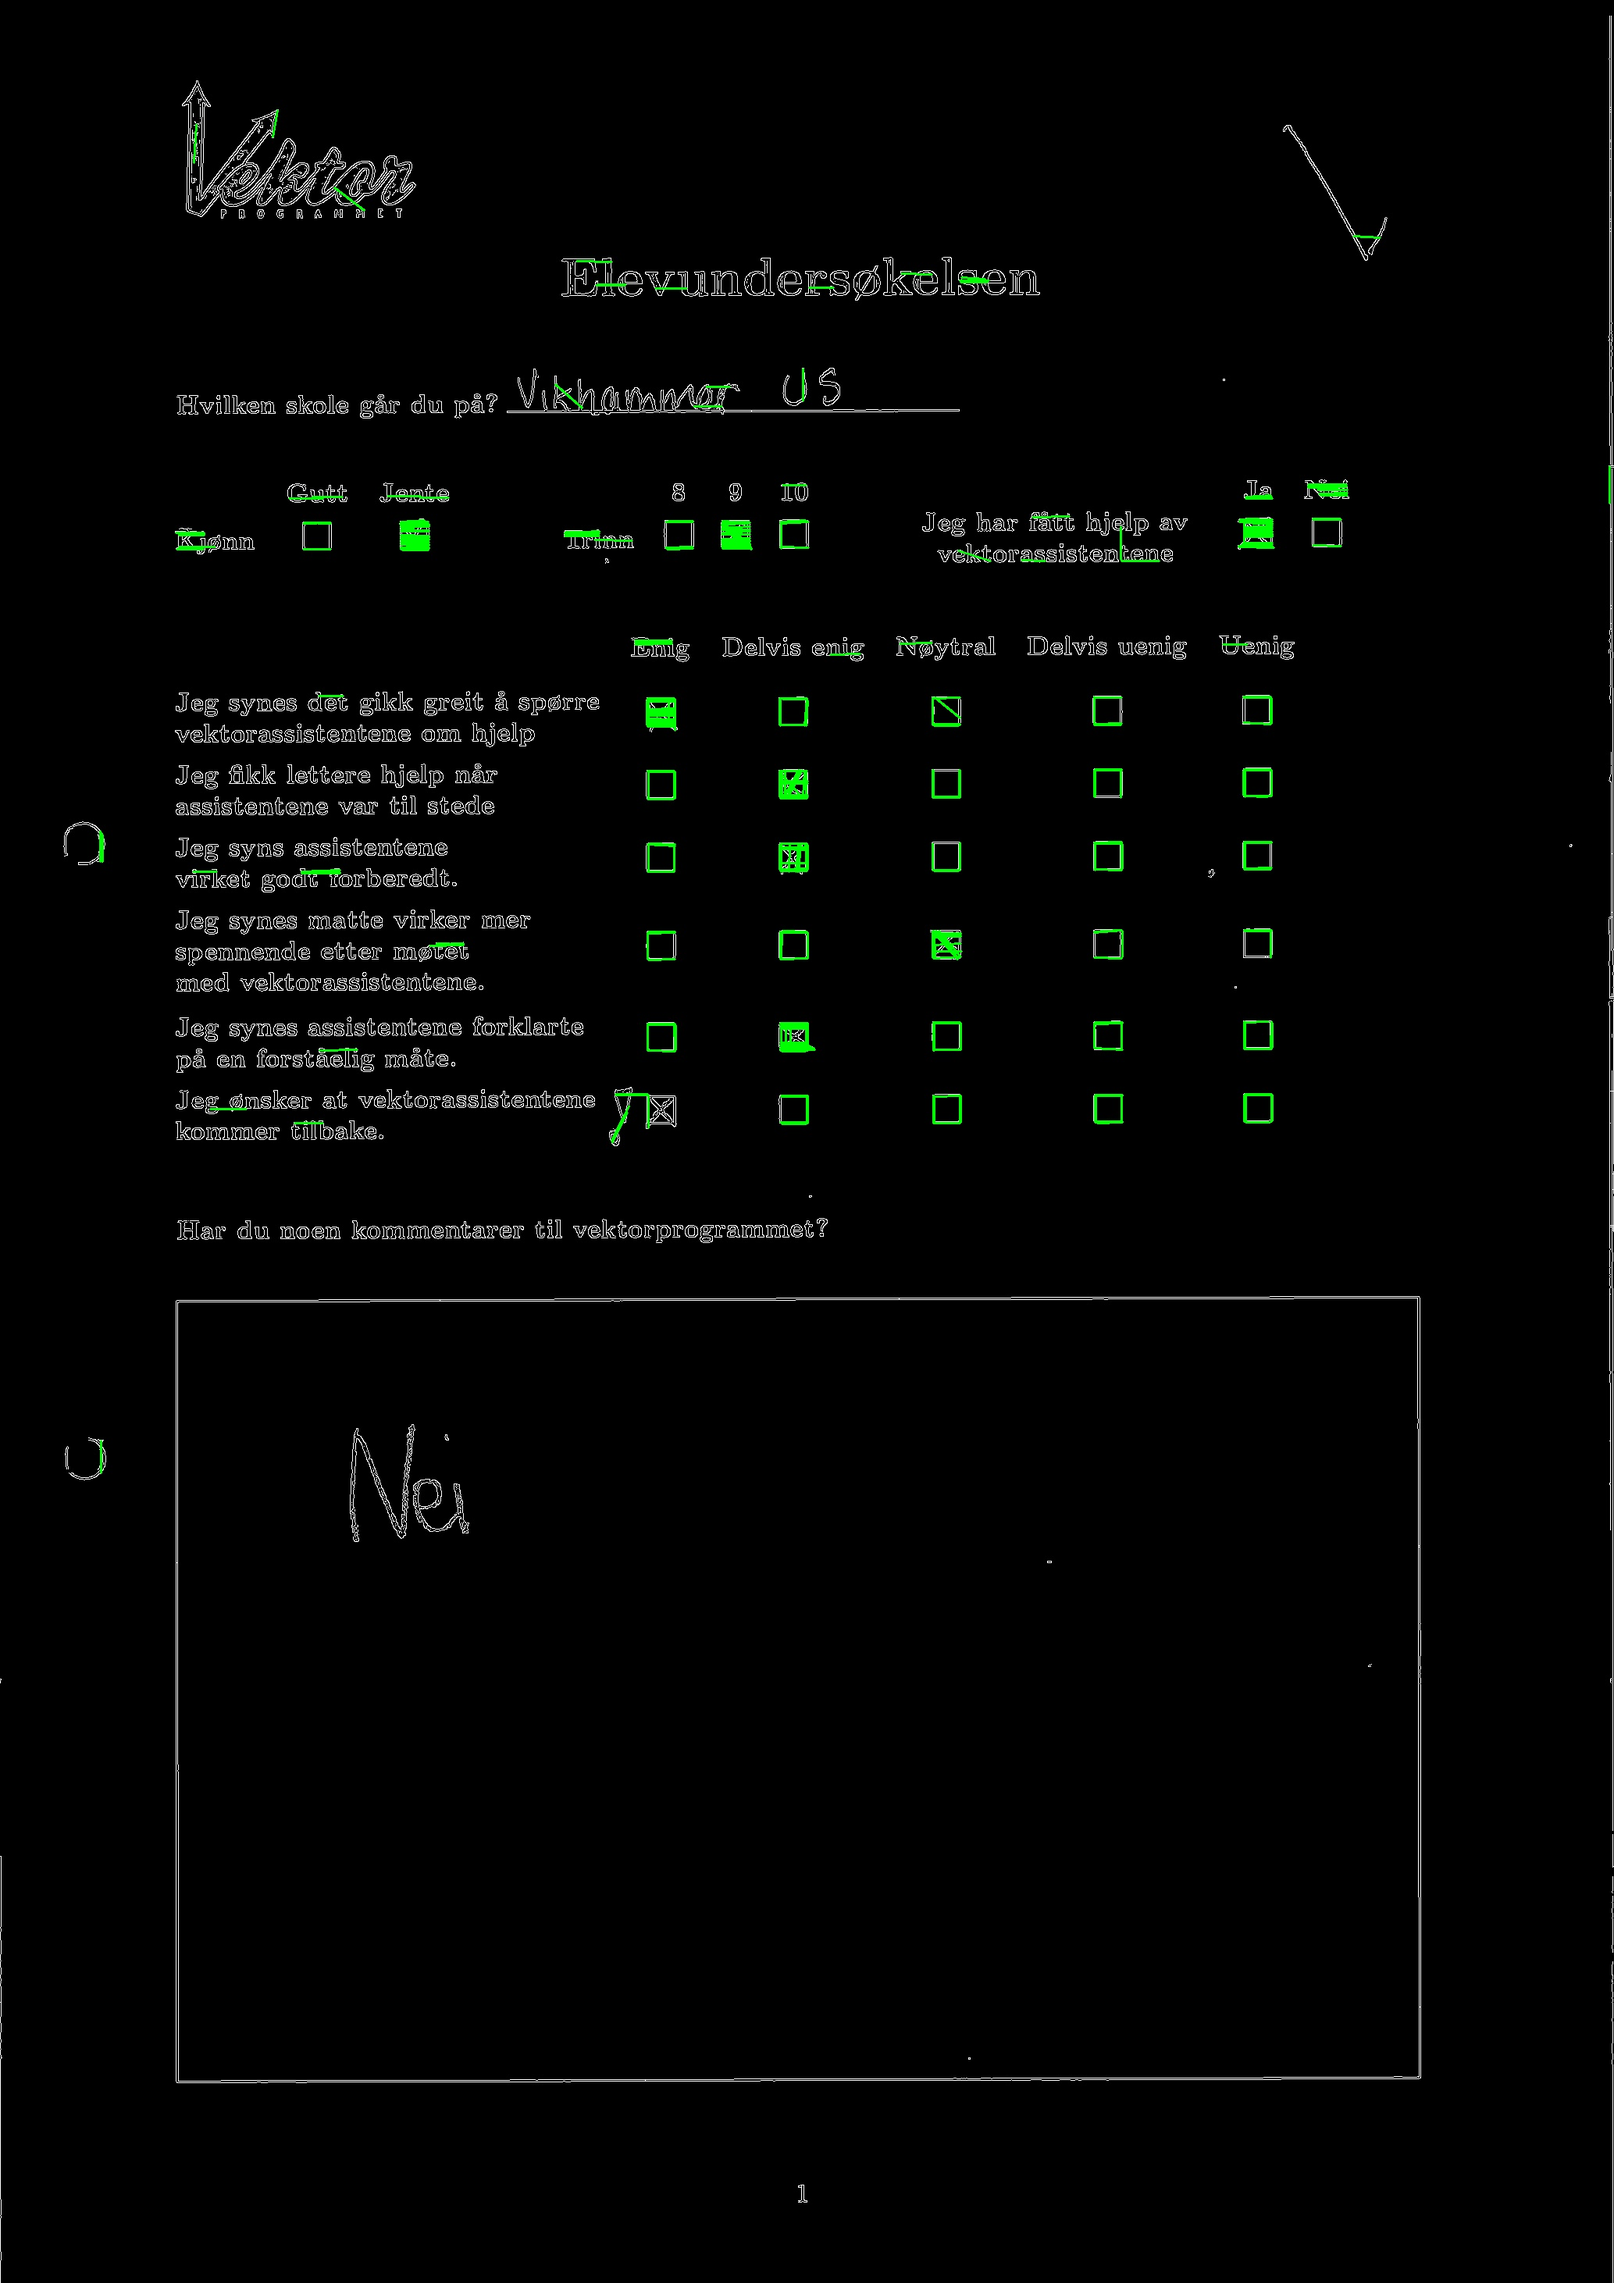
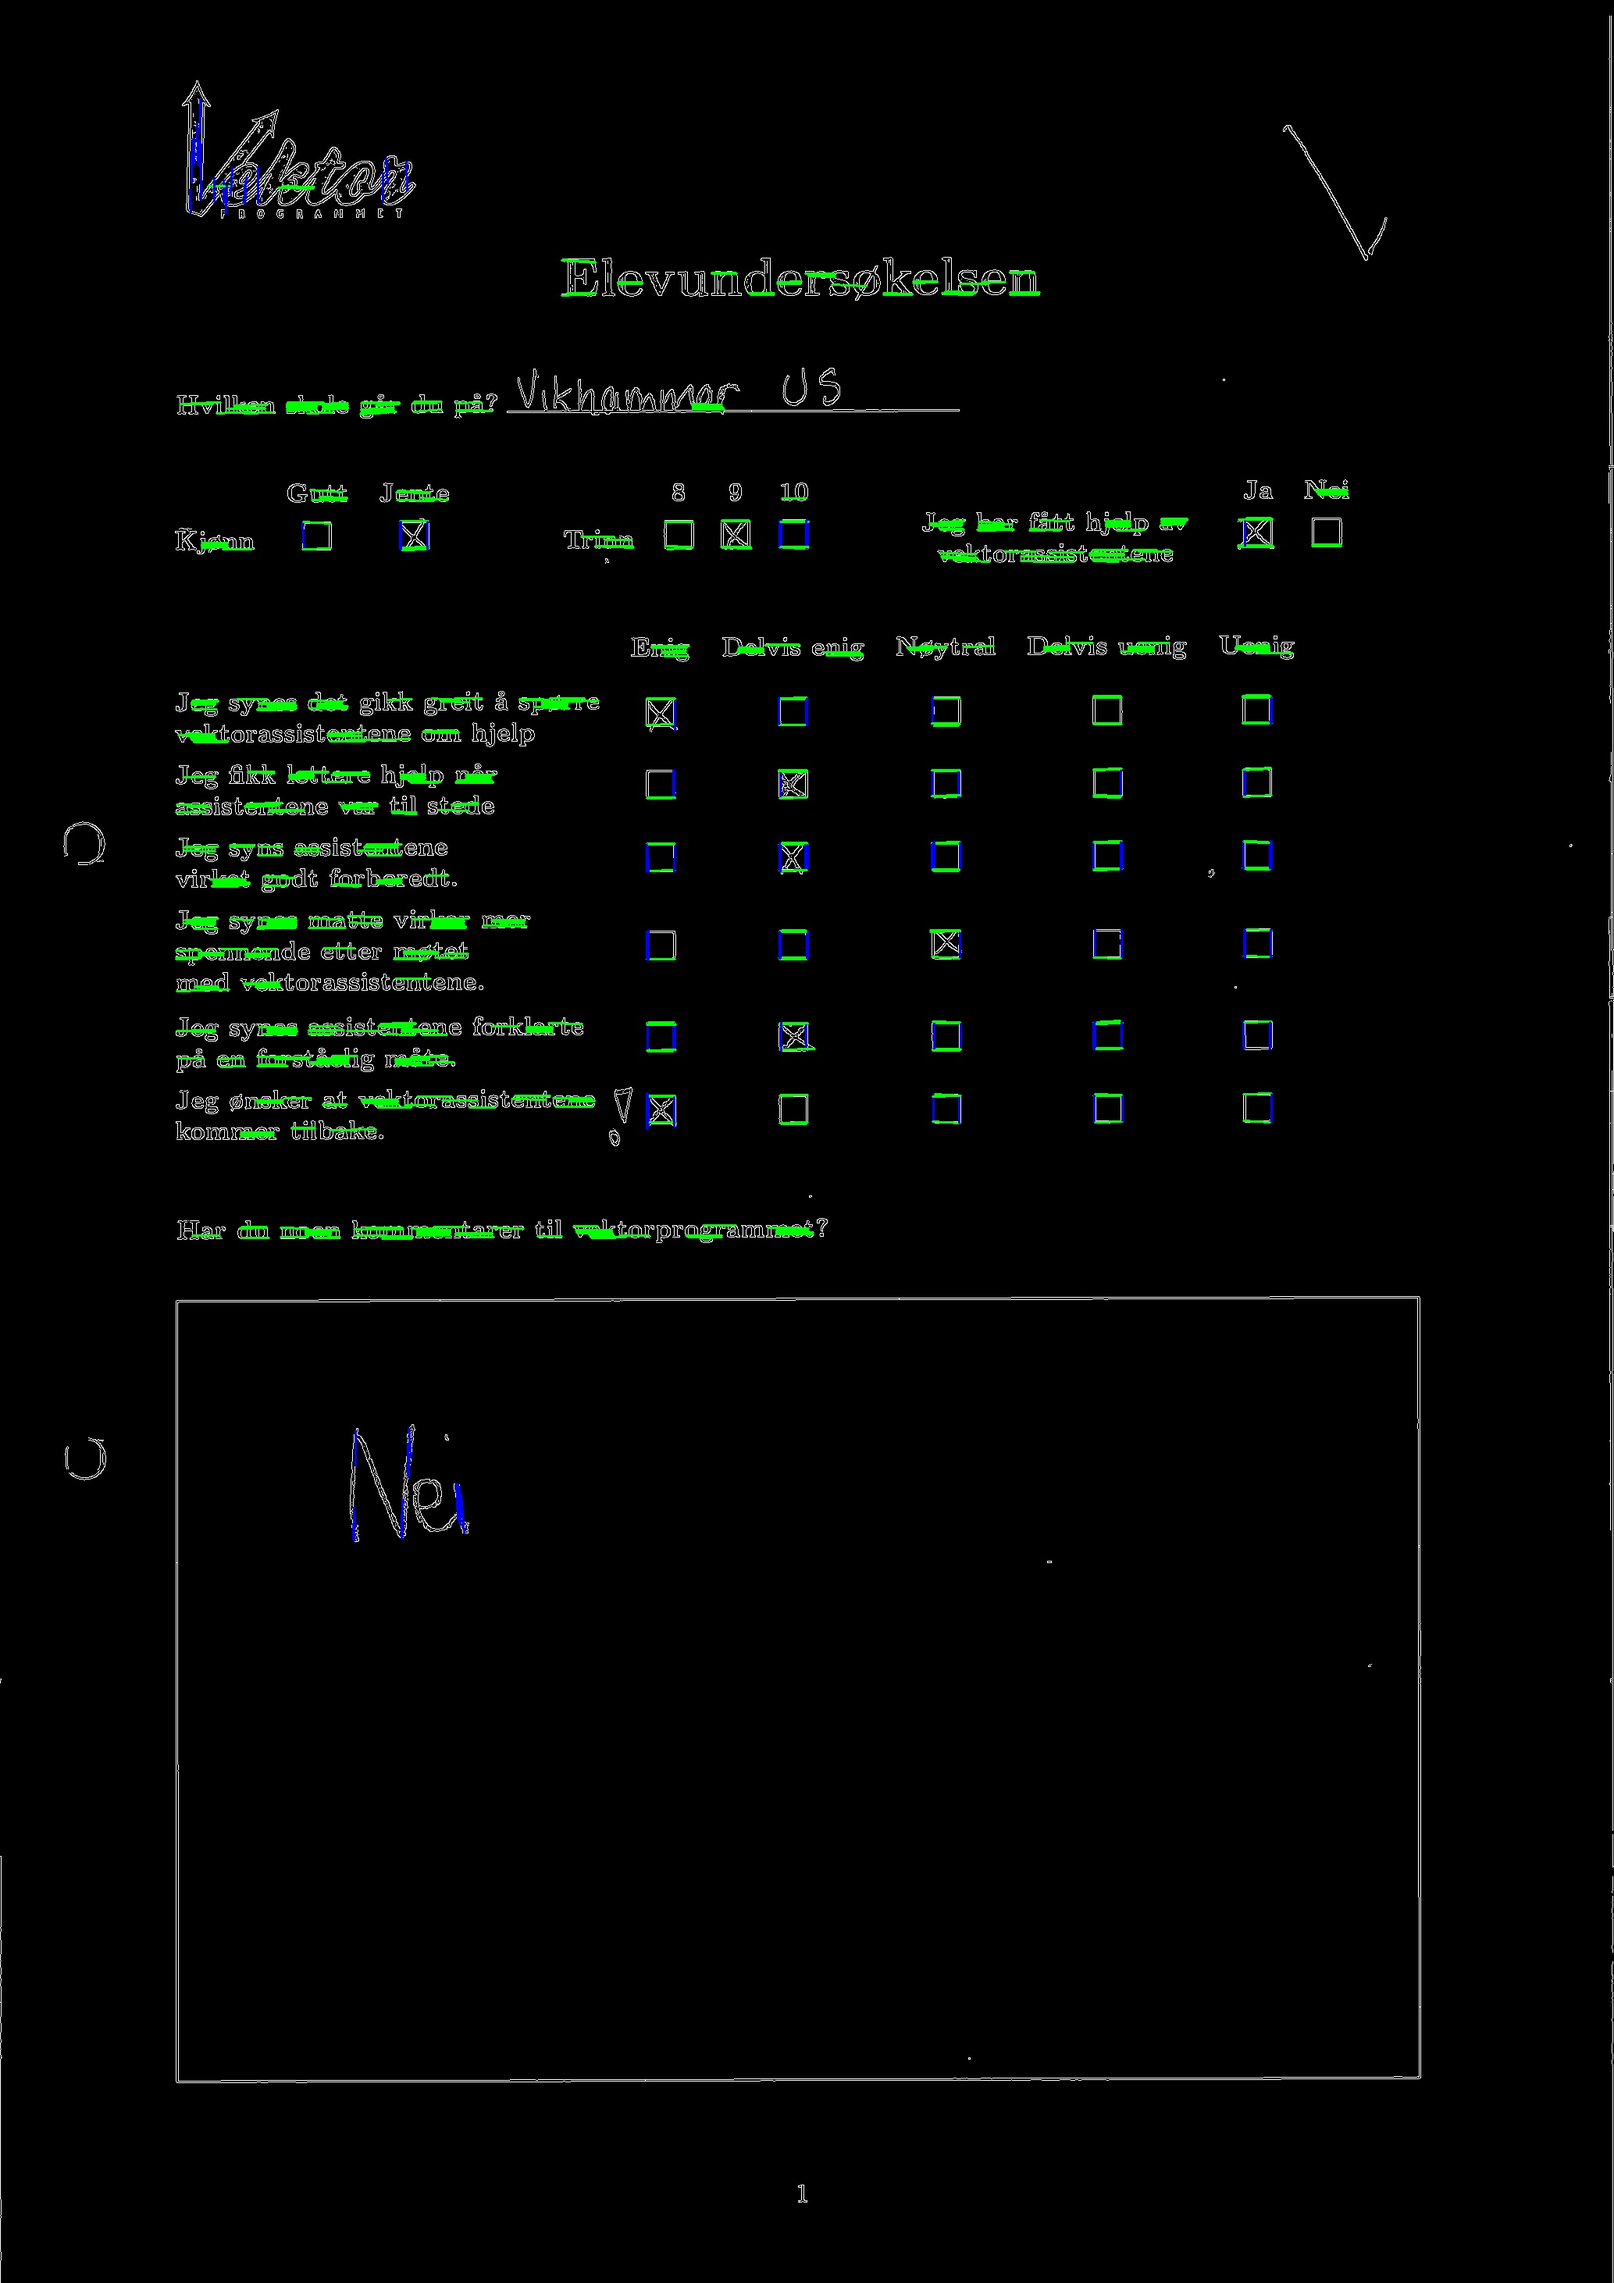
Use contour detection instead of HoughLines

diff --git a/scan.py b/scan.py
@@ -4,16 +4,26 @@ from os import makedirs
 import cv2
 import timeit
 import numpy as np
+import imutils
 
 minLineLength = 30
 maxLineLength = 50
-maxLineGap = 30
+maxLineGap = 5
 threshold = 50
 resizeFactor = 0.5
 
-pdf_filename = 'vikhammer.pdf'
-dirname = '/tmp/survey/raw/%s' % pdf_filename
+angle_thresh = 5 * np.pi/180
+
+test_pdf_filename = 'vikhammer.pdf'
+dirname = '/tmp/survey/raw/%s' % test_pdf_filename
 makedirs(dirname, exist_ok=True)
+
+square_side = 36.5  # TODO: This value depends on resize factor: this is for 0.5
+side_thresh = 10
+square_perimeter = 4 * square_side
+perimeter_thresh = 4 * side_thresh
+square_area = square_side**2
+area_thresh = side_thresh**2
 
 
 def line_len(line):
@@ -21,42 +31,95 @@ def line_len(line):
         return np.sqrt((x2 - x1) ** 2 + (y2 - y1) ** 2)
 
 
-# Convert to jpg
-print('Starting conversion to jpg...')
-start = timeit.default_timer()
-pages = convert_from_path(pdf_filename, 500)
-end = timeit.default_timer()
-print('Successfully converted %d pages in %d seconds.' % (len(pages), end - start))
+def convert_to_jpg(pdf_filename, location) -> list:
+    # Convert to jpg
+    print('Starting conversion to jpg...')
+    start = timeit.default_timer()
+    pages = convert_from_path(pdf_filename, 500)
+    end = timeit.default_timer()
+    print('Successfully converted %d pages in %d seconds.' % (len(pages), end - start))
 
-# Save images
-print('Saving to %s/...' % dirname)
-image_filenames = []
-for i, page in enumerate(pages):
-    image_filename = '%s/p%d.jpg' % (dirname, i)
-    image_filenames.append(image_filename)
-    page.save(image_filename, 'JPEG')
-print('Saved all images')
+    # Save images
+    print('Saving to %s/...' % location)
+    image_filenames = []
+    for i, page in enumerate(pages):
+        image_filename = '%s/p%d.jpg' % (location, i)
+        image_filenames.append(image_filename)
+        page.save(image_filename, 'JPEG')
+    print('Saved all images')
+    return image_filenames
 
-# Scan for lines
-print('Starting scan of %d images' % len(image_filenames))
-image_filenames = ['/tmp/survey/raw/vikhammer.pdf/p2.jpg']  # For testing
-for i, fname in enumerate(image_filenames):
-    print('Scanning %s (%d of %d)' % (fname, i + 1, len(image_filenames)))
-    img = cv2.imread(fname)
-    img2 = cv2.cvtColor(img, cv2.COLOR_RGB2GRAY)
-    img2 = cv2.resize(img2, (0, 0), fx=resizeFactor, fy=resizeFactor)
-    canny = cv2.Canny(img2, 0, 100)
-    dilate_kernel = np.ones((5, 5), np.uint8)
-    dilate = cv2.dilate(canny, dilate_kernel)
-    erode_kernel = np.ones((6, 6), np.uint8)
-    erode = cv2.erode(dilate, erode_kernel)
-    lines = cv2.HoughLinesP(erode, rho=1, theta=np.pi / 180, threshold=50, minLineLength=minLineLength, maxLineGap=maxLineGap)
 
-    print('Found %d lines' % len(lines))
-    cannyColor = cv2.cvtColor(canny, cv2.COLOR_GRAY2RGB)
-    for line in lines:
-        if line_len(line) < maxLineLength:
-            for x1, y1, x2, y2 in line:
-                cv2.line(cannyColor, (x1, y1), (x2, y2), (0, 255, 0), 2)
+def scan_for_lines(image_filenames):
+    # Scan for lines
+    print('Starting scan_for_lines of %d images' % len(image_filenames))
+    for i, fname in enumerate(image_filenames):
+        print('Scanning %s (%d of %d)' % (fname, i + 1, len(image_filenames)))
+        img = cv2.imread(fname)
+        img2 = cv2.cvtColor(img, cv2.COLOR_RGB2GRAY)
+        img2 = cv2.resize(img2, (0, 0), fx=resizeFactor, fy=resizeFactor)
+        canny = cv2.Canny(img2, 0, 100)
+        dilate_kernel = np.ones((5, 5), np.uint8)
+        dilate = cv2.dilate(canny, dilate_kernel)
+        erode_kernel = np.ones((5, 5), np.uint8)
+        erode = cv2.erode(dilate, erode_kernel)
+        cv2.imwrite('erode.jpg', erode)
+        lines = cv2.HoughLinesP(erode, rho=1, theta=np.pi / 180, threshold=130, minLineLength=minLineLength, maxLineGap=maxLineGap)
 
-    cv2.imwrite('lines.jpg', cannyColor)
+        print('Found %d lines' % len(lines))
+        cannyColor = cv2.cvtColor(canny, cv2.COLOR_GRAY2RGB)
+        horisontal_lines = []
+        vertical_lines = []
+        for line in lines:
+            if line_len(line) < maxLineLength:
+                for x1, y1, x2, y2 in line:
+                    angle = np.arctan2(y2-y1, x2-x1)
+                    if -angle_thresh < angle < angle_thresh\
+                            or -angle_thresh < angle + np.pi < angle_thresh:
+                        cv2.line(cannyColor, (x1, y1), (x2, y2), (0, 255, 0), 2)
+                        horisontal_lines.append(line)
+                    if -angle_thresh < angle + (np.pi / 2) < angle_thresh \
+                            or -angle_thresh < angle - (np.pi / 2) < angle_thresh:
+                        cv2.line(cannyColor, (x1, y1), (x2, y2), (255, 0, 0), 2)
+                        vertical_lines.append(line)
+
+        cv2.imwrite('lines.jpg', cannyColor)
+
+
+def scan_for_squares(image_filenames) -> list:
+    print('Starting scan_for_lines of %d images' % len(image_filenames))
+    colors = [(0,255,0), (255,0,0), (0,0,255), (255,255,0), (255,0,255)]
+    for i, fname in enumerate(image_filenames):
+        print('Scanning %s (%d of %d)' % (fname, i + 1, len(image_filenames)))
+        orig = cv2.imread(fname)
+        resize = cv2.resize(orig, (0, 0), fx=resizeFactor, fy=resizeFactor)
+        img2 = cv2.cvtColor(resize, cv2.COLOR_RGB2GRAY)
+        canny = cv2.Canny(img2, 0, 100)
+        dilate_kernel = np.ones((5, 5), np.uint8)
+        dilate = cv2.dilate(canny, dilate_kernel)
+        erode_kernel = np.ones((5, 5), np.uint8)
+        erode = cv2.erode(dilate, erode_kernel)
+        contours = cv2.findContours(erode.copy(), cv2.RETR_EXTERNAL, cv2.CHAIN_APPROX_SIMPLE)
+        contours = imutils.grab_contours(contours)
+        squares = []
+        areas = []
+        perimeters = []
+        for i, c in enumerate(contours):
+            peri = cv2.arcLength(c, True)
+            c_approx = cv2.approxPolyDP(c, 0.04 * peri, True)
+            if len(c_approx) == 4 \
+                    and square_area - area_thresh < cv2.contourArea(c) < square_area + area_thresh\
+                    and square_perimeter - perimeter_thresh < peri < square_perimeter + perimeter_thresh:
+                areas.append(cv2.contourArea(c))
+                perimeters.append(peri)
+                squares.append(c)
+                cv2.drawContours(resize, [c_approx], -1, colors[i % len(colors)], 4)
+        cv2.imwrite('contours.jpg', resize)
+
+
+
+
+
+test_image_filenames = ['/tmp/survey/raw/vikhammer.pdf/p2.jpg']  # For testing
+#scan_for_lines(test_image_filenames)
+test_squares = scan_for_squares(test_image_filenames)

diff --git a/README.md b/README.md
@@ -9,3 +9,6 @@ Current progress:
 Progress after tweaking the parameters somewhat and adding an erode/dilate step:
 ![Progress 2](lines.jpg "Progress 2")
 Box lines are detected more clearly, and less of the other lines are wrongly detected.
+
+Progress after using contours instead of `HoughLines`:
+![Progress 2](contours.jpg "Progress 3")
